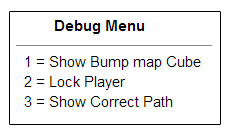
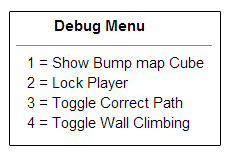
Added wall climbing to debug menu

diff --git a/src/js/Debug.js b/src/js/Debug.js
@@ -3,6 +3,7 @@
  * 1 = Turn on bump cube 
  * 2 = Lock Player 
  * 3 = Show Correct Paths 
+ * 4 = Enable/Disable ceiling climbing
  **/
 
 /** Debug structure **/
@@ -37,8 +38,8 @@ Debug.prototype.init = function(){
 	var material = new THREE.SpriteMaterial( { map: texture, useScreenCoordinates: true} );
   material.transparent = true;
 	this.debugMenu  = new THREE.Sprite( material );
-	this.debugMenu.position.set( WIDTH - 124, HEIGHT - 72, 0 );
-	this.debugMenu.scale.set( 228, 134, 1.0 );
+	this.debugMenu.position.set( WIDTH - 124, HEIGHT - 82, 0 );
+	this.debugMenu.scale.set( 228, 154, 1.0 );
 }
 
 /** Update Debug controls **/
@@ -74,6 +75,9 @@ Debug.prototype.update = function(){
     // Turn on off correct path 
     if (keyPressed(KEY_3))
       level.draw_correct_path = !level.draw_correct_path;
+    // Turn on/off wall climbing 
+    if (keyPressed(KEY_4))
+      level.player.allow_roof_climbing = !level.player.allow_roof_climbing;
     
     // Turn off debug mode 
     if (keyPressed(KEY_TILDE)){
